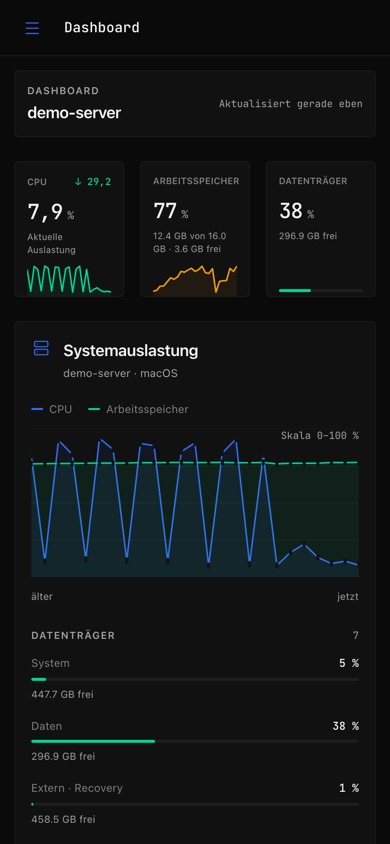
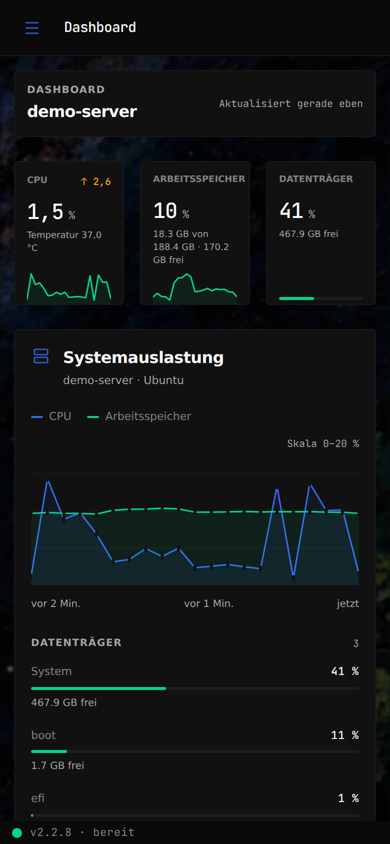
docs: Landingpage- und Doku-Screenshots mit Demo-Daten erneuern

diff --git a/CHANGELOG.md b/CHANGELOG.md
@@ -5,6 +5,7 @@ Alle relevanten Änderungen werden in kurzen Stichpunkten dokumentiert.
 ## [Unreleased]
 
 ### Verändert
+- Landingpage- und Doku-Screenshots erneuert: dunkles Standard-Theme mit Demo-Daten überall, Capybara in der Statusleiste und Dashboard-Hintergrund auf den Übersichts-Motiven.
 - Accounts-Liste weiter vereinfacht: Zeilen zeigen nur noch die E-Mail-Adresse, Status und Details stehen im 3-Punkte-Menü unter Information, Aktiv-Button und Aktivieren-Button sind gleich groß, das Menü klappt unten nicht mehr um.
 - Account-Menü zweispaltig: Information und Aktionen stehen nebeneinander, das Popup ist breiter statt höher und weicht nach oben aus, wenn unten kein Platz ist.
 
